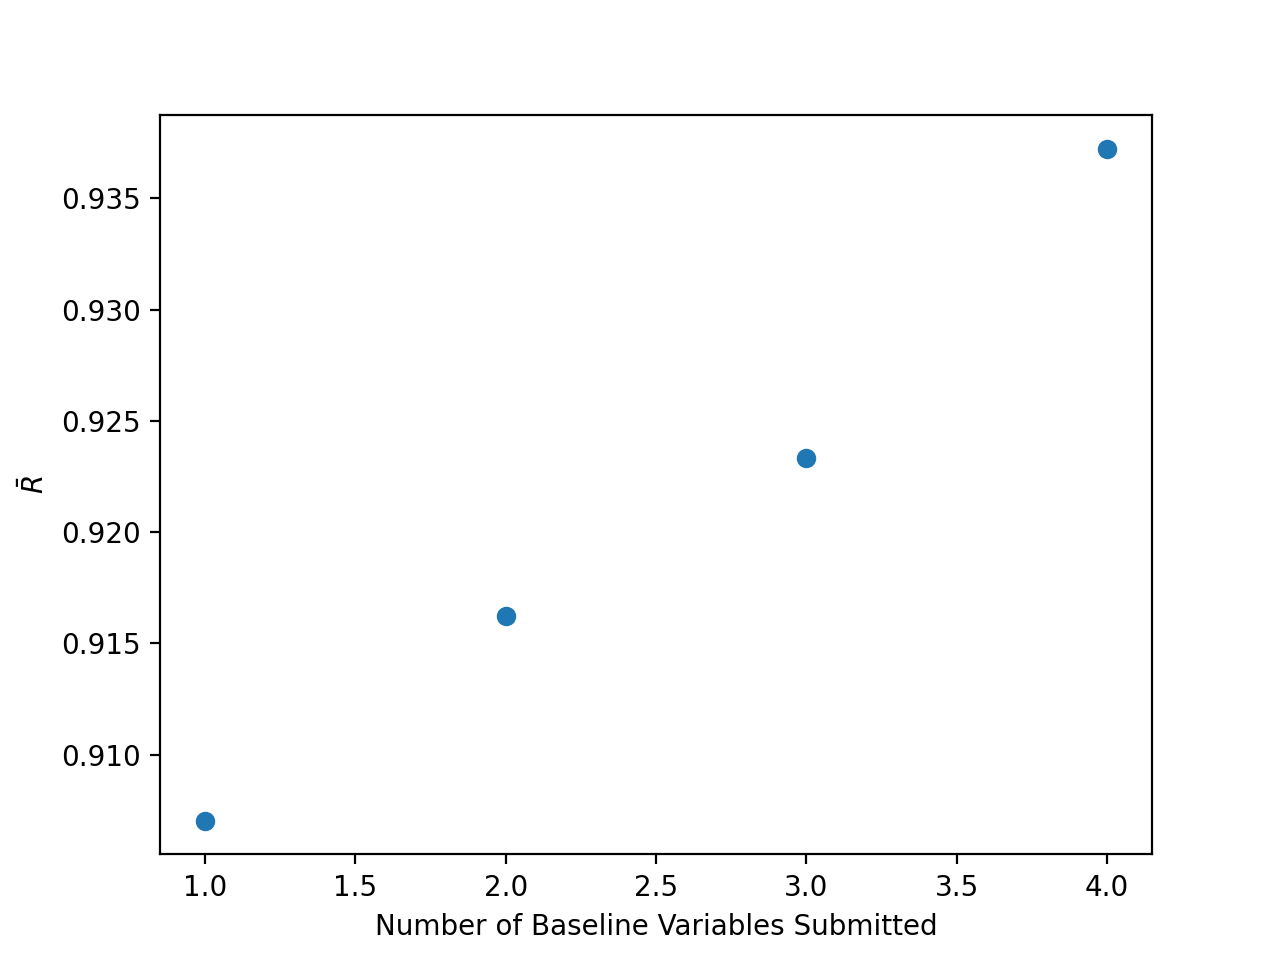
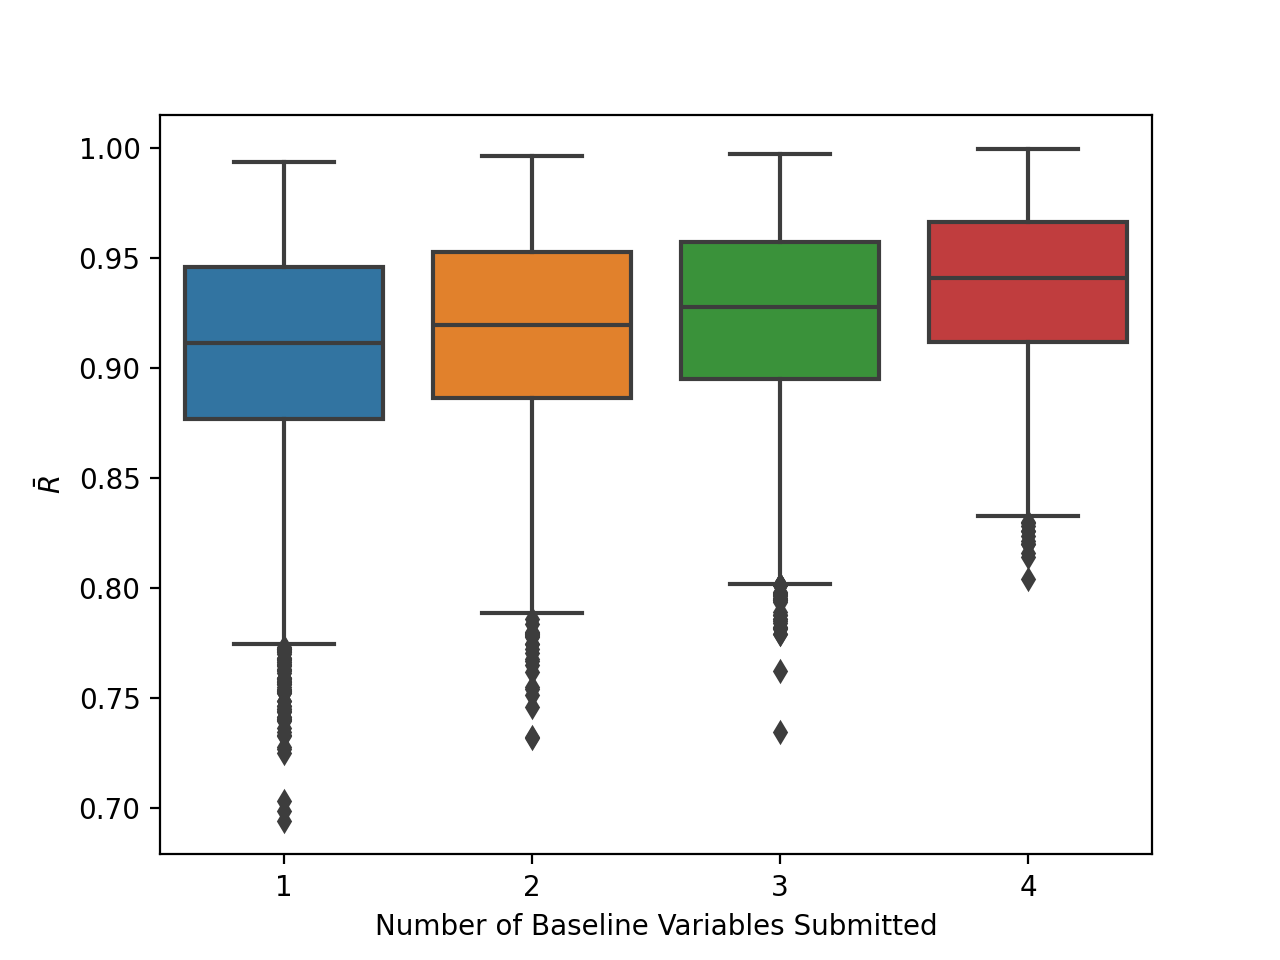
one more boxplot fig

diff --git a/analyze.py b/analyze.py
@@ -174,7 +174,8 @@ g = m.groupby('n_vars')['norm_rho_bal'].mean()
 print(g)
 
 fig, ax = plt.subplots()
-ax.scatter(g.index, g)
+sns.boxplot(data=m, x='n_vars', y='norm_rho_bal', ax=ax)
+#ax.scatter(g.index, g)
 ax.set_xlabel("Number of Baseline Variables Submitted")
 ax.set_ylabel("$\\bar{R}$")
 fig.savefig('fig5.pdf')
